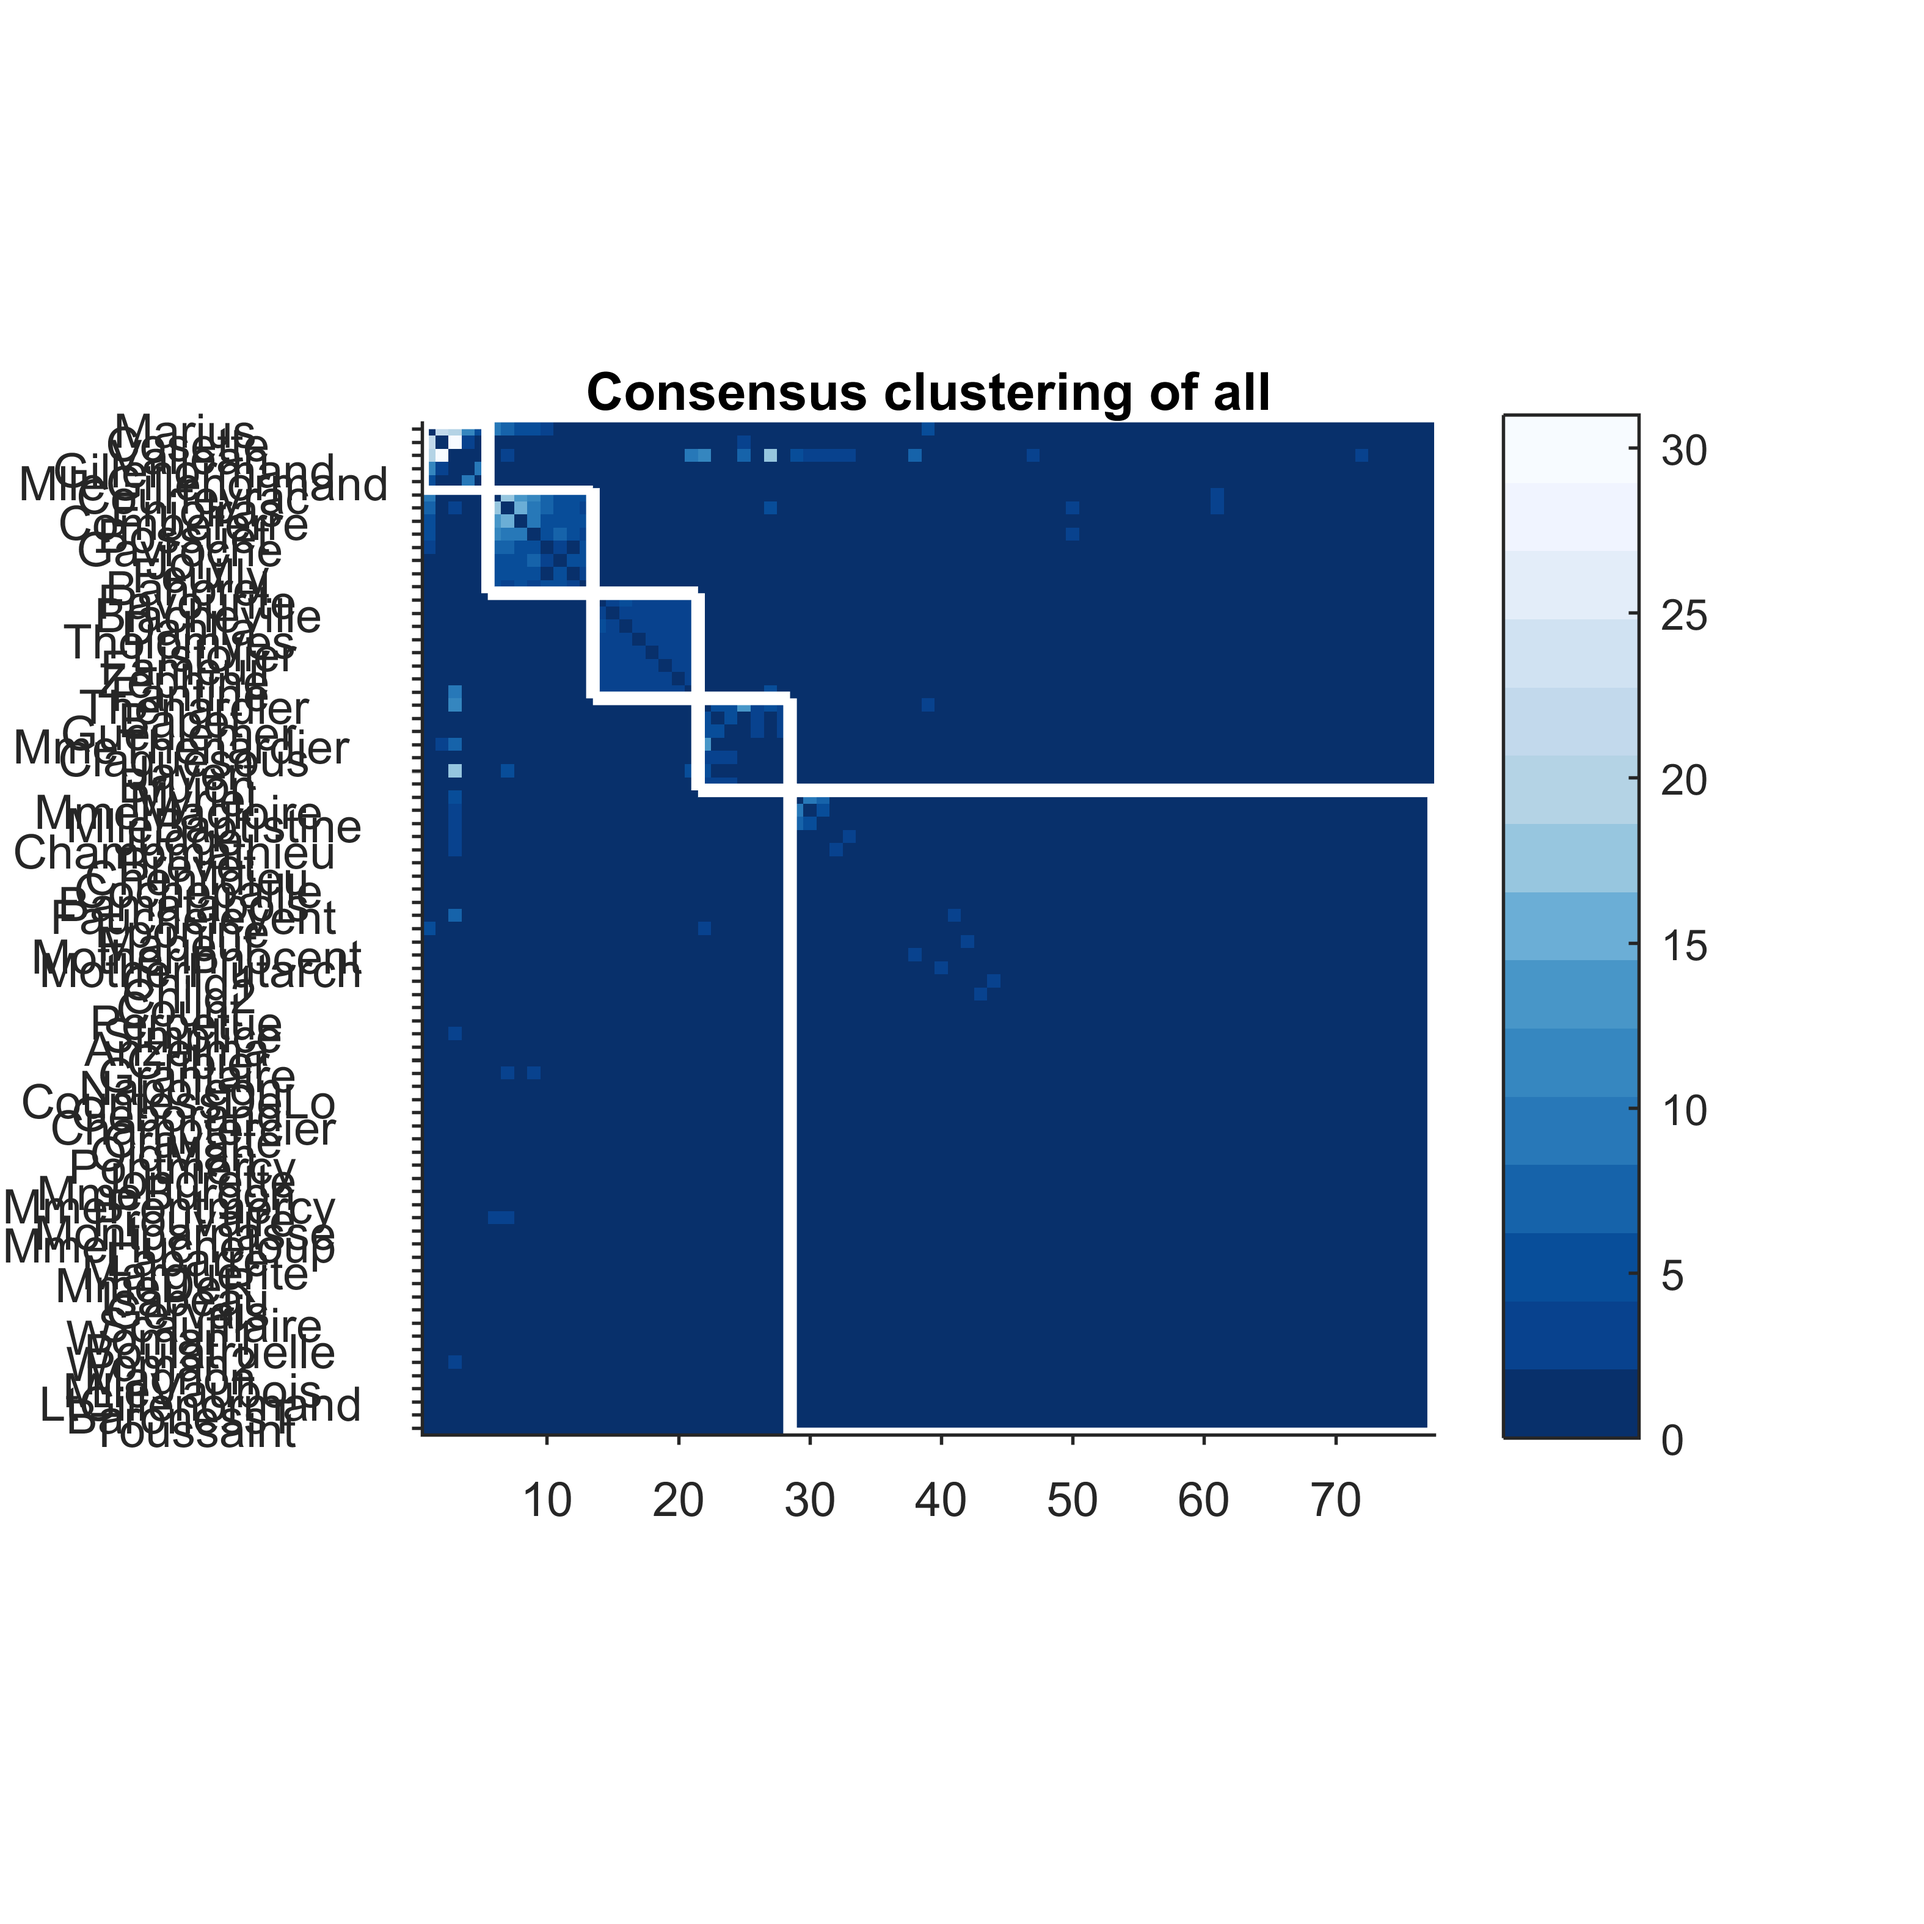
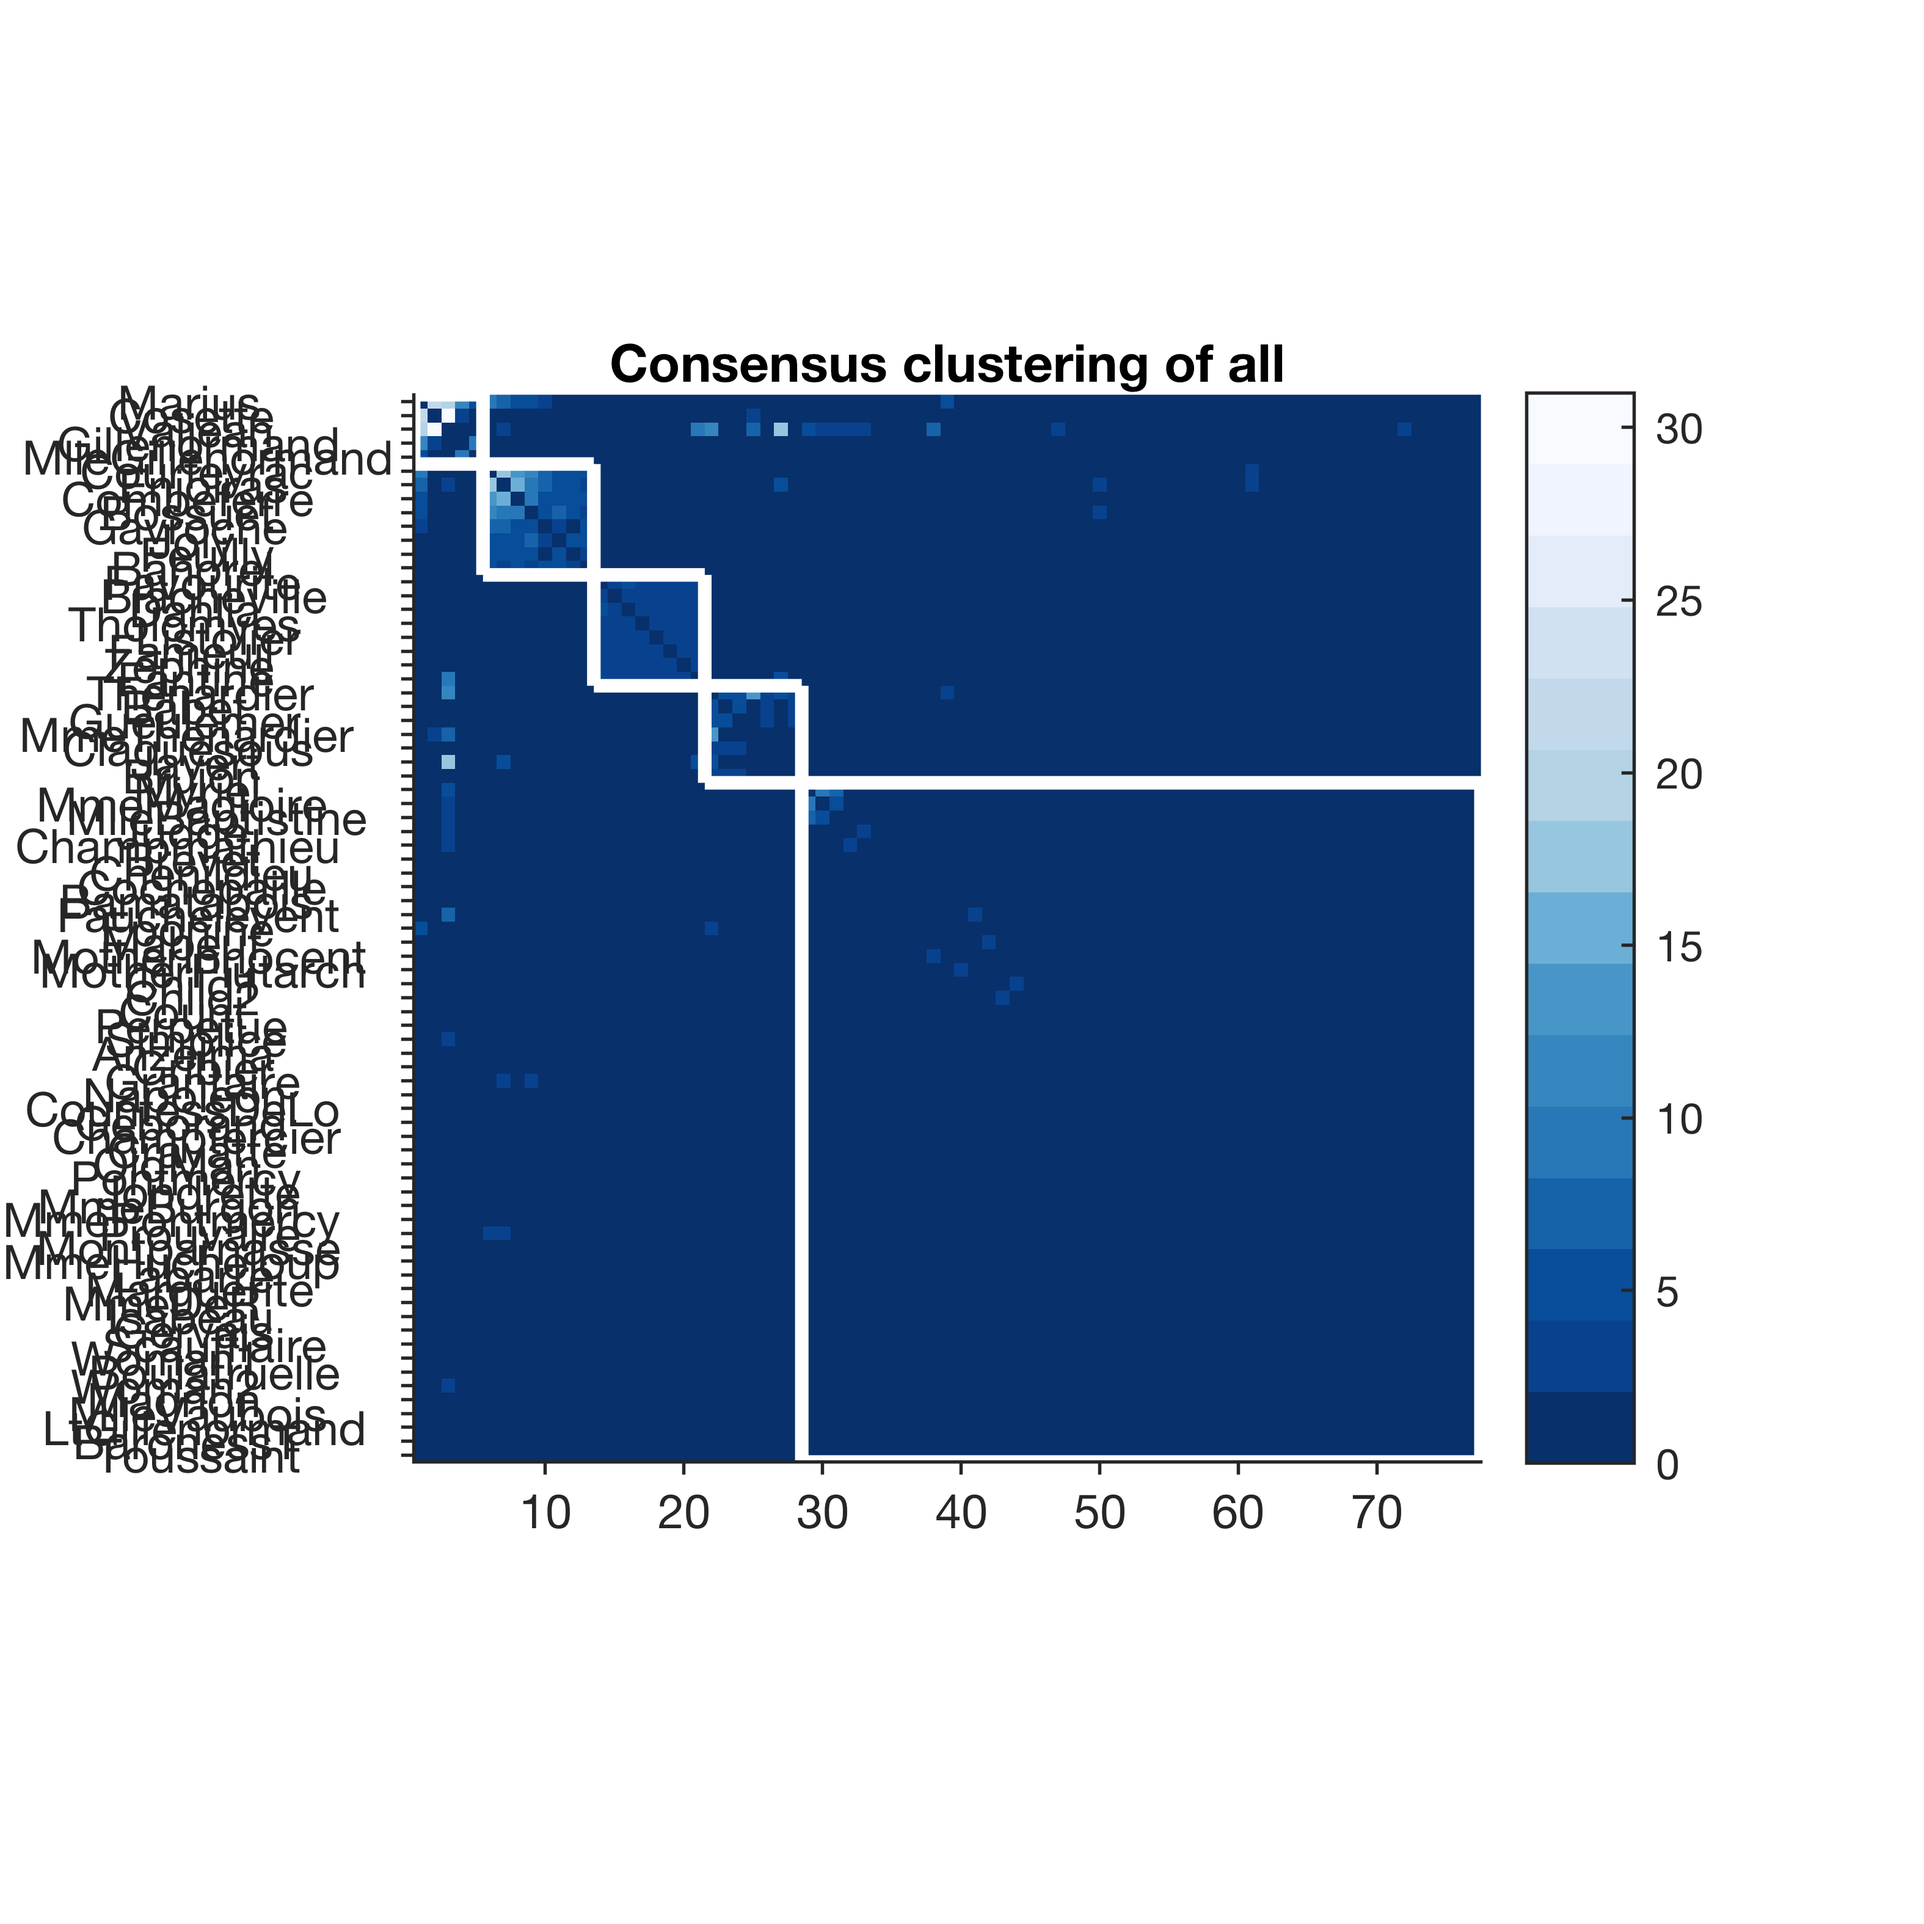
checking results

diff --git a/Scripts_for_Paper/Visualise_Clusterings.m b/Scripts_for_Paper/Visualise_Clusterings.m
@@ -7,8 +7,8 @@ clear all; close all
 addpath('../Helper_Functions/')
 
 % fname = 'Allen_Gene_Leaf'; 
-% fname = 'LesMis'; 
-fname = 'StarWarsNetworkEp5'; 
+fname = 'LesMis'; 
+% fname = 'StarWarsNetworkEp5'; 
 
 blnLabels = 1;      % write node labels? Omit for large networks
 blnExport = 1;
@@ -28,7 +28,7 @@ if Data.Dn > 0
     plotorder = Data.ixSignal_Final(Ix);
     
     if blnLabels
-        % Add node labelss
+        % Add node labels
         set(gca,'Ytick',1:numConnected);
         set(gca,'Yticklabel',Data.nodelabels(plotorder,:),'Fontsize',fontsize);
         % set(gca,'XTickLabelRotation',90);

diff --git a/Scripts_for_Paper/Visualise_P_Rejection_SyntheticModel_Results.m b/Scripts_for_Paper/Visualise_P_Rejection_SyntheticModel_Results.m
@@ -33,7 +33,7 @@ perf_cmap = brewermap(10,'Blues');
 VI_cmap = brewermap(10,'Reds');
 colors.line = [0.8 0.7 0.7];
 colors.error = [0.8 0.7 0.7];
-colors.WCM = [0.8 0.5 0.5];
+colors.WCM = [0.8 0.5 0.7];
 colors.Config= [0.5 0.5 0.8];
 colors.WCMpos = [0.9 0.7 0.7];
 colors.Configpos= [0.7 0.7 0.9];
